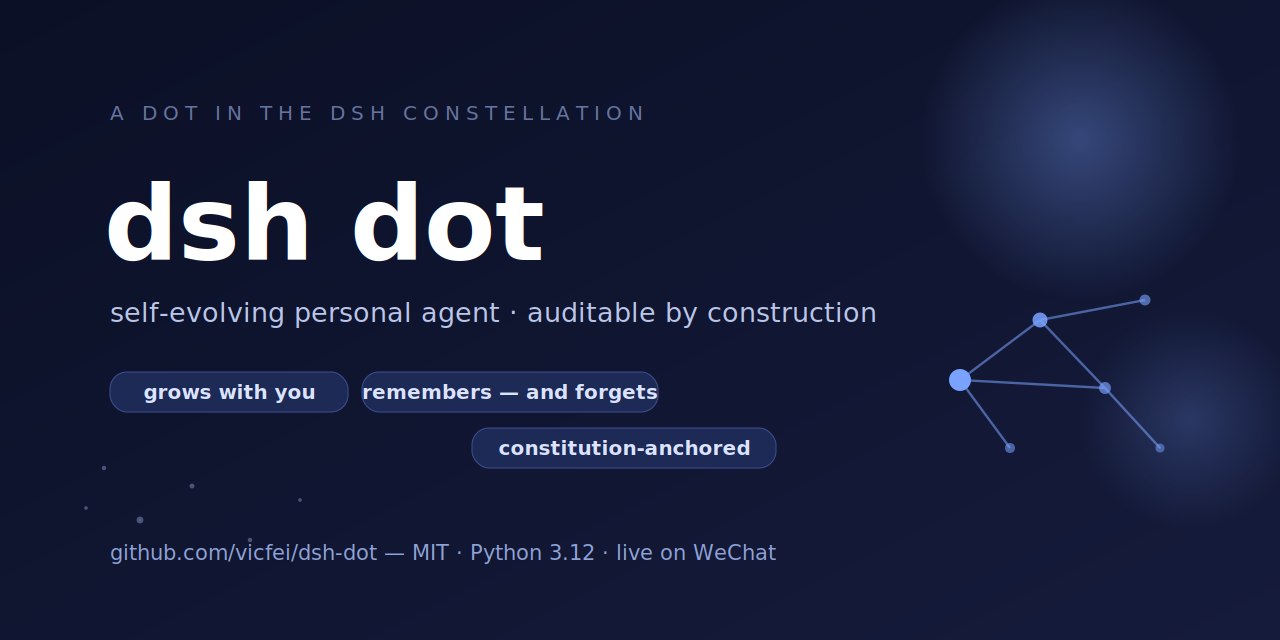
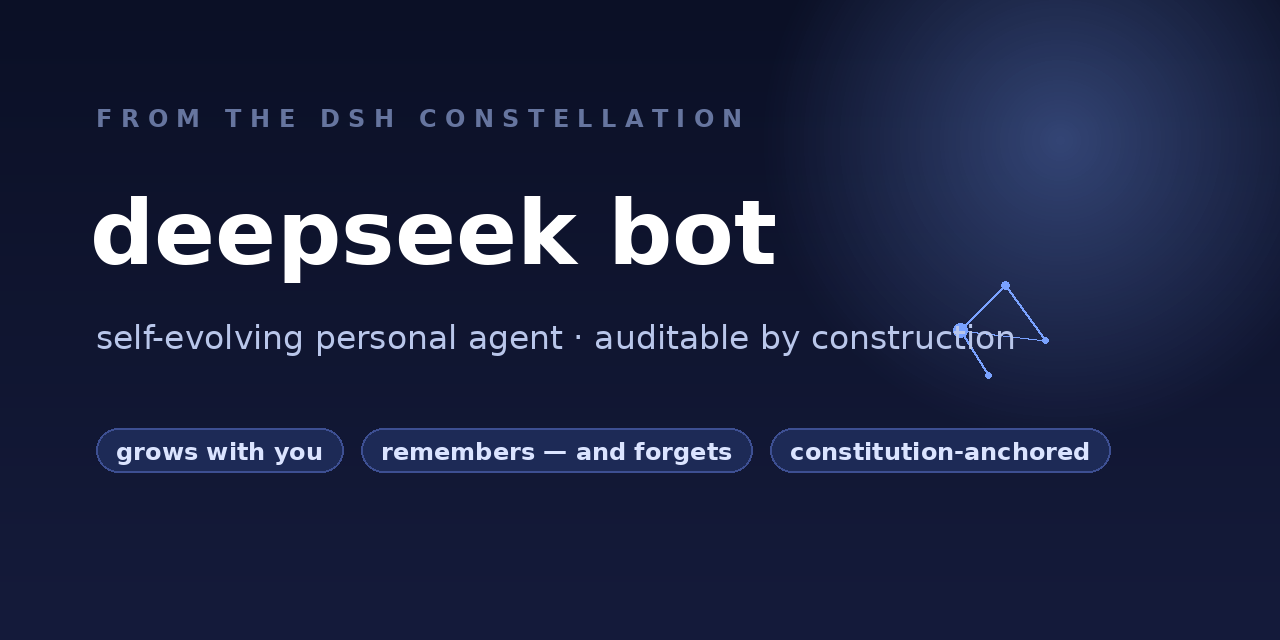
docs: rename dsh dot → DeepSeek Bot (brand, lineage wording, visual assets)

diff --git a/README.md b/README.md
@@ -1,12 +1,12 @@
-# dsh dot
+# DeepSeek Bot
 
-[![CI](https://github.com/vicfei/dsh-dot/actions/workflows/ci.yml/badge.svg)](https://github.com/vicfei/dsh-dot/actions/workflows/ci.yml)
+[![CI](https://github.com/vicfei/deepseek-bot/actions/workflows/ci.yml/badge.svg)](https://github.com/vicfei/deepseek-bot/actions/workflows/ci.yml)
 
-<p align="center"><img src="assets/banner.svg" alt="dsh dot — self-evolving personal agent, auditable by construction" width="880"></p>
+<p align="center"><img src="assets/banner.svg" alt="DeepSeek Bot — self-evolving personal agent, auditable by construction" width="880"></p>
 
 **A self-evolving AI agent runtime with a reversible, crash-recoverable core.**
 
-dsh dot is an AI agent that answers on your chat channels, turns experience
+DeepSeek Bot is an AI agent that answers on your chat channels, turns experience
 into reusable skills, and treats *every* change it makes to itself as an
 auditable, revertible ledger entry — so autonomy never costs you control.
 
@@ -14,7 +14,7 @@ auditable, revertible ledger entry — so autonomy never costs you control.
 
 ## Why it is different
 
-Most agent frameworks optimize for the demo. dsh dot optimizes for the other
+Most agent frameworks optimize for the demo. DeepSeek Bot optimizes for the other
 11 months: what happens when the agent modifies its own state, a plugin
 crashes at 3 a.m., a tool misbehaves, or you simply want yesterday back.
 The architecture is built around that, from the kernel up:
@@ -100,17 +100,17 @@ from the [Cordis](https://github.com/cordiverse/cordis) programming paradigm
 as pioneered in production by [**DeepSeek Harness** (`dsh`)](https://github.com/deepseek-ai/deepseek-harness),
 the open-source agent harness by DeepSeek AI.
 
-`dsh dot` is an **independent Python-route descendant** of that philosophy,
-applied to a self-evolving personal agent: no shared code with dsh
+`DeepSeek Bot` is an **independent Python-route descendant** of that
+philosophy, applied to a self-evolving personal agent: no shared code with dsh
 (TypeScript), not a fork, and not affiliated with DeepSeek or the
-`deepseek-ai` organization. Where dsh is a general agent harness, dsh dot
+`deepseek-ai` organization. Where dsh is a general agent harness, DeepSeek Bot
 bets the same composability discipline on one scenario — a personal agent
 that runs for months, remembers with crypto-forgetting, schedules, promotes
 its own skills, and anchors its safety rules in a tamper-evident ledger.
 
 The first-class model adapter is DeepSeek (the project grew up debugging
 reasoning-model discipline against `deepseek` APIs), and the name pays the
-debt: **a dot in the dsh constellation.**
+debt: **a DeepSeek bot, built the dsh way.**
 
 ## Status
 
@@ -134,8 +134,8 @@ The authoritative design baseline lives in [`docs/design/`](docs/design/)
 Requires Python 3.12+.
 
 ```bash
-git clone https://github.com/vicfei/dsh-dot.git
-cd dsh-dot
+git clone https://github.com/vicfei/deepseek-bot.git
+cd deepseek-bot
 python3 -m venv .venv && .venv/bin/pip install -e ".[dev]"
 
 .venv/bin/pytest -q                    # full suite (unit + PBT + fuzz + channels)

diff --git a/README.zh-CN.md b/README.zh-CN.md
@@ -1,12 +1,12 @@
-# dsh dot
+# DeepSeek Bot
 
-[![CI](https://github.com/vicfei/dsh-dot/actions/workflows/ci.yml/badge.svg)](https://github.com/vicfei/dsh-dot/actions/workflows/ci.yml)
+[![CI](https://github.com/vicfei/deepseek-bot/actions/workflows/ci.yml/badge.svg)](https://github.com/vicfei/deepseek-bot/actions/workflows/ci.yml)
 
-<p align="center"><img src="assets/banner.svg" alt="dsh dot——自进化个人智能体,天然可审计" width="880"></p>
+<p align="center"><img src="assets/banner.svg" alt="DeepSeek Bot——自进化个人智能体,天然可审计" width="880"></p>
 
 **可安全自我修改、经验可复利的自进化智能体运行时。**
 
-dsh dot 是你的私人 AI 智能体:在你的聊天渠道上应答,把经验沉淀为可复用的技能,
+DeepSeek Bot 是你的私人 AI 智能体:在你的聊天渠道上应答,把经验沉淀为可复用的技能,
 并且把它对自身做出的**每一次**修改都记为可审计、可回滚的账本条目——
 让自主性不以失控为代价。
 
@@ -14,7 +14,7 @@ dsh dot 是你的私人 AI 智能体:在你的聊天渠道上应答,把经验沉
 
 ## 有什么不一样
 
-大多数智能体框架为演示效果优化。dsh dot 为之后的十一个月优化:当智能体修改了
+大多数智能体框架为演示效果优化。DeepSeek Bot 为之后的十一个月优化:当智能体修改了
 自身状态、插件在凌晨三点崩溃、工具行为异常、或者你只是想要回昨天的系统时,
 会发生什么?架构从内核层开始就围绕这些问题构建:
 
@@ -87,14 +87,14 @@ dsh dot 是你的私人 AI 智能体:在你的聊天渠道上应答,把经验沉
 [**DeepSeek Harness**(`dsh`)](https://github.com/deepseek-ai/deepseek-harness)
 率先落地于生产。
 
-`dsh dot` 是该哲学的**独立 Python 路线后裔**,专注自进化个人智能体:
+`DeepSeek Bot` 是该哲学的**独立 Python 路线后裔**,专注自进化个人智能体:
 与 dsh(TS)零共享代码、非 fork、与 DeepSeek 及 `deepseek-ai` 组织无隶属。
-dsh 是通用 agent 框架,dsh dot 则把同一套可组合性纪律押注在一个场景上——
+dsh 是通用 agent 框架,DeepSeek Bot 则把同一套可组合性纪律押注在一个场景上——
 一个能连续运行数月、带密码学遗忘的记忆、会排程、能晋升自身技能、
 把安全规则锚进防篡改账本的个人智能体。
 
 一等公民模型适配器是 DeepSeek(本项目就是伴着 deepseek 推理模型的
-工程纪律长大的),名字也认这笔账:**dsh 星座里的一颗点**。
+工程纪律长大的),名字也认这笔账:**一颗按 dsh 路数长成的 DeepSeek bot**。
 
 ## 状态
 
@@ -117,8 +117,8 @@ dsh 是通用 agent 框架,dsh dot 则把同一套可组合性纪律押注在一
 需要 Python 3.12+。
 
 ```bash
-git clone https://github.com/vicfei/dsh-dot.git
-cd dsh-dot
+git clone https://github.com/vicfei/deepseek-bot.git
+cd deepseek-bot
 python3 -m venv .venv && .venv/bin/pip install -e ".[dev]"
 
 .venv/bin/pytest -q                    # 全量测试(单元 + PBT + 模糊 + 渠道)

diff --git a/naga/context/register.md b/naga/context/register.md
@@ -489,3 +489,11 @@
 
 - 用户反馈 dsh-super-agent 主页图片(banner/三规则图/真实 demo GIF/架构 SVG)带来 3 star/日 → 解码其配方"每张图有职责:身份→论点→证据→机制",为 dsh dot 照方自制四件(全自产,零外部素材):assets/banner.svg(星点星座 nod)、bargain.svg("自主性是交换来的"论点图)、architecture.svg(渠道→车道→回路→账本/CAS/投影/宪法,K.3 标注 planned)、demo-doctor.gif(**生产 daemon 真实 naga doctor 输出**逐帧打字渲染:1111 条账本链校验通过+宪法锚点匹配,PIL 自渲 43KB/8 帧)。双语 README 四点嵌入(Try-it 配"每一行都是真实输出"照抄其诚实标注法)。三门绿直推;raw 链接 200 验证。
 - 遗留:social preview 图(GitHub 设置面板需手动上传或 GraphQL,建议用户传 assets/banner.svg 导出的 PNG)。
+
+## 2026-11-07 四次更名 dsh dot → deepseek bot(用户命名决策)
+
+- 用户定名 **deepseek bot**(展示名 DeepSeek Bot)。执行:repo → `vicfei/deepseek-bot`(旧地址 301);README 双语换名(品牌位+Lineage 落款句);因名字不再是"dot",Lineage 收尾句改为"a DeepSeek bot, built the dsh way"(名字认账 DeepSeek,路数认账 dsh),banner kicker 同步改 FROM THE DSH CONSTELLATION。
+- 视觉资产:banner.svg 字标换新(font 74→68 防溢出);social-preview.png 重生成(PIL 1280×640,初版字标 118px 撞星座图、三胶囊溢出右缘——程序化边界检查抓出,缩至 90/24px 后通过;脚本未入库,与上批一致 PNG 即源)。
+- 代码层仍 naga(包/CLI/home,改名批维持撤销);描述行同步 "DeepSeek Bot — your personal AI agent: self-evolving, fully auditable (hash-chained ledger + constitution), live on WeChat."
+- 商标注意:公开名含 "DeepSeek" 而声明无隶属——Lineage 的无关联声明保留并加重(名称描述性使用风险已向用户提示,用户拍板)。
+- 内部链(仅登记册/brainvault):Naga→GrowBuddy→PersonalAgent→dsh dot(11-01)→deepseek bot(11-07)。推广文案全部作废(dsh dot 版从未出过;后续按需重出)。
